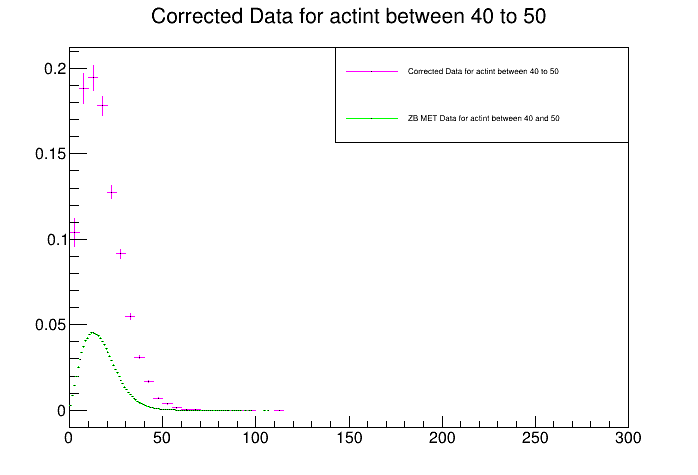
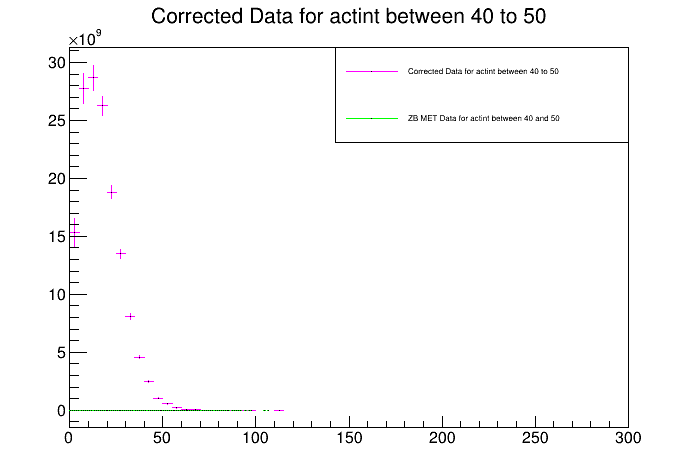
Tried doing the relative normalization to the regular set of plots. I get the correct numerical value for the bin content, but the plots don't reflect what the bin content is

diff --git a/Mu_Analysis/PerformCorrection/CorrectingDistributions.C b/Mu_Analysis/PerformCorrection/CorrectingDistributions.C
@@ -118,44 +118,9 @@ void CorrectingDistributions::Terminate(){
 	// DETERMINE Relative Normalization Distributions
     // These should be the same for all of the histograms, because the ticks should be the same 
     Float_t normalization_thresh = 10.0;
-    Int_t thresh_bin = zbMETMuBin0thru10->GetBin( normalization_thresh );
-    std::cout << "bin corresponding to " << normalization_thresh << " Gev: " << thresh_bin << std::endl;
-
-    //zbMETMuBin0thru10->Draw();
-    MET_Correctedmu0thru10_copy->Draw();
-
-    // determine the ratios of the bins of the original ZB to corrected at the thresh bin
-    Int_t initial_bin_content = zbMETMuBin0thru10->GetBinContent( thresh_bin );
-    Int_t initial_bin_content_corrected = MET_Correctedmu0thru10_copy->GetBinContent( thresh_bin );
-    // renormalize the entire histogam using the ratio at the thresh bin
-    std::cout << "initial bin content: " << initial_bin_content << std::endl;
-    std::cout << "corrected initial bin content: " << initial_bin_content_corrected << std::endl;
-    MET_Correctedmu0thru10_copy->Scale( initial_bin_content / initial_bin_content_corrected );
-
-
-    TCanvas* relative_normalization_canvas = new TCanvas("relative_norm", "Canvas Containing Relative Normalization");
-    TLegend* relative_norm_legend = new TLegend();
-    MET_Correctedmu0thru10_copy->Draw();
-    zbMETMuBin0thru10->Draw("SAME");
-    relative_norm_legend->AddEntry(zbMETMuBin0thru10);
-    relative_norm_legend->AddEntry(MET_Correctedmu0thru10_copy);
-    relative_norm_legend->Draw("SAME");
-    gStyle->SetOptStat(0);
-
-
-
-
-
-
+    Int_t thresh_bin = zbMETMuBin40thru50->GetBin( normalization_thresh );
 
     // normalize to 1 {{{
-    MET_Correctedmu0thru10->SetNormFactor(1.);
-    MET_Correctedmu10thru20->SetNormFactor(1.);
-    MET_Correctedmu20thru30->SetNormFactor(1.);
-    MET_Correctedmu30thru40->SetNormFactor(1.);
-    MET_Correctedmu40thru50->SetNormFactor(1.);
-    MET_Correctedmu50thru60->SetNormFactor(1.);
-    MET_Correctedmu60thru70->SetNormFactor(1.);
     zbMETMuBin0thru10->SetNormFactor(1.);
     zbMETMuBin10thru20->SetNormFactor(1.);
     zbMETMuBin20thru30->SetNormFactor(1.);
@@ -163,6 +128,23 @@ void CorrectingDistributions::Terminate(){
     zbMETMuBin40thru50->SetNormFactor(1.);
     zbMETMuBin50thru60->SetNormFactor(1.);
     zbMETMuBin60thru70->SetNormFactor(1.);
+    MET_Correctedmu0thru10->SetNormFactor(1.);
+    MET_Correctedmu10thru20->SetNormFactor(1.);
+    MET_Correctedmu20thru30->SetNormFactor(1.);
+    MET_Correctedmu30thru40->SetNormFactor(1.);
+
+    Double_t initial_bin_content = zbMETMuBin40thru50->GetBinContent( thresh_bin );
+    Double_t initial_bin_content_corrected = MET_Correctedmu40thru50_copy->GetBinContent( thresh_bin );
+    Double_t scale_factor = initial_bin_content / initial_bin_content_corrected;
+
+    std::cout << "ZB MET Bin Content: " << initial_bin_content << std::endl;
+    std::cout << "Corrected MET Bin Content: " << initial_bin_content_corrected << std::endl;
+    std::cout << "Scale Factor: " << scale_factor << std::endl;
+
+    MET_Correctedmu40thru50_copy->Scale( scale_factor );
+    std::cout << "Corrected MET Bin Content After Scaling: " << MET_Correctedmu40thru50_copy->GetBinContent( thresh_bin ) << std::endl;
+    MET_Correctedmu50thru60->SetNormFactor(1.);
+    MET_Correctedmu60thru70->SetNormFactor(1.);
     //}}}
 
     // plot corrected distributions {{{
